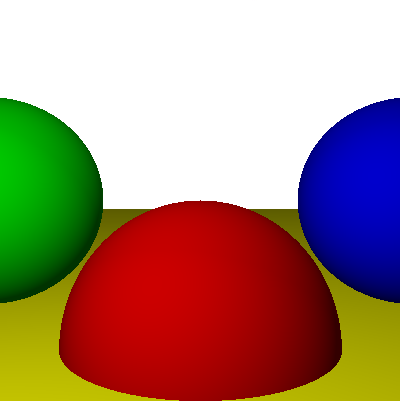
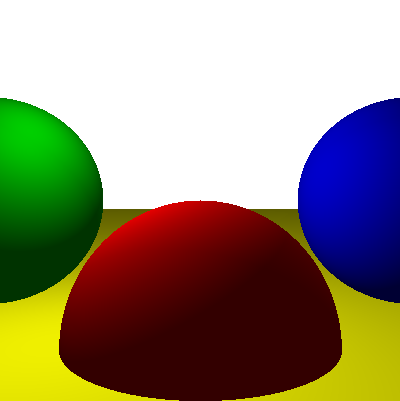
Some refactoring in project.

diff --git a/ray_trace/mainwindow.cpp b/ray_trace/mainwindow.cpp
@@ -6,6 +6,10 @@
 
 #include "mainwindow.h"
 #include "ui_mainwindow.h"
+#include "sphere.h"
+#include "light.h"
+#include "vectors_math.h"
+
 
 const double Vw = 1;
 const double Vh = 1;
@@ -16,36 +20,17 @@ const double Vz = d;
 std::vector<int> BG_COLOR = {255, 255, 255};
 
 
-struct Sphere {
-    std::vector<double> center;
-    double r;
-    std::vector<int> color;
-};
-
-Sphere s1 = {{0, -1, 3}, 1, {255, 0, 0}};
-Sphere s2 = {{2, 0, 4}, 1, {0, 0, 255}};
-Sphere s3 = {{-2, 0, 4}, 1, {0, 255, 0}};
-Sphere s4 = {{0, -5001, 0}, 5000, {255, 255, 0}};
-std::vector<Sphere> objects = {s1, s2, s3, s4};
-
-
-struct Light {
-    enum type {
-        ambient = 0,
-        point,
-        directional
-    };
-
-    type t;
-    double intensity;
-    std::vector<double> position;
-    std::vector<double> direction;
-};
-
 Light l1 = {Light::type::ambient, 0.2};
-Light l2 = {Light::type::point, 0.6, {-1, 1, 0}};
+Light l2 = {Light::type::point, 0.6, {-1, 1, 4}};
 Light l3 = {Light::type::directional, 0.2, {}, {1 , 4, 4}};
 std::vector<Light> lights = {l1, l2, l3};
+
+Sphere* s1 = new Sphere {{0, -1, 3}, 1, {255, 0, 0}};
+Sphere* s2 = new Sphere {{2, 0, 4}, 1, {0, 0, 255}};
+Sphere* s3 = new Sphere {{-2, 0, 4}, 1, {0, 255, 0}};
+Sphere* s4 = new Sphere {{0, -5001, 0}, 5000, {255, 255, 0}};
+//Sphere* sLight = new Sphere {{l2.position[0], l2.position[1] - 0.5, l2.position[2]}, 0.1, {255, 255, 0}};
+std::vector<Object*> objects = {s1, s2, s3, s4};
 
 MainWindow::MainWindow(QWidget *parent)
     : QMainWindow(parent)
@@ -56,7 +41,7 @@ MainWindow::MainWindow(QWidget *parent)
     image.save(PICTURE_PATH);
     Cw = ui->widget->width();
     Ch = ui->widget->height();
-    draw_spheres();
+//    draw_spheres();
 }
 
 MainWindow::~MainWindow()
@@ -77,53 +62,6 @@ std::vector<double> CanvasToViewport(double x, double y) {
     return {x * Vw / Cw, y * Vh / Ch, d};
 }
 
-
-double ScalarMult(const std::vector<double>& U, const std::vector<double>& V) {
-    return U[0] * V[0] + U[1] * V[1] + U[2] * V[2];
-}
-
-
-std::vector<double> IntersectRaySphere(const std::vector<double>& O, const std::vector<double>& D, const Sphere& sphere) {
-    std::vector<double> OC = {O[0] - sphere.center[0],
-                              O[1] - sphere.center[1],
-                              O[2] - sphere.center[2]};
-
-    double k1 = ScalarMult(D, D);
-    double k2 = 2 * ScalarMult(OC, D);
-    double k3 = ScalarMult(OC, OC) - sphere.r * sphere.r;
-
-    double discriminant = k2 * k2 - 4 * k1 * k3;
-    if (discriminant < 0) {
-        return {std::numeric_limits<double>::max(), std::numeric_limits<double>::max()};
-    }
-
-    double t1 = (-k2 + sqrt(discriminant)) / (2 * k1);
-    double t2 = (-k2 - sqrt(discriminant)) / (2 * k1);
-    return {t1, t2};
-}
-
-
-double VectorLength(const std::vector<double>& v) {
-    return sqrt(v[0] * v[0] + v[1] * v[1] + v[2] * v[2]);
-}
-
-std::vector<double> VectorSum(const std::vector<double>& u, const std::vector<double>& v) {
-    return {v[0] + u[0], v[1] + u[1], v[2] + u[2]};
-}
-
-std::vector<double> VectorMult(const std::vector<double>& u, const double& v) {
-    return {u[0] * v, u[1] * v, u[2] * v};
-}
-
-std::vector<int> VectorMult(const std::vector<int>& u, const double& v) {
-    return {(int) round(u[0] * v), (int) round(u[1] * v), (int) round(u[2] * v)};
-}
-
-
-std::vector<double> VectorDiff(const std::vector<double>& u, const std::vector<double>& v) {
-    return {u[0] - v[0], u[1] - v[1], u[2] - v[2]};
-}
-
 double ComputeLightning(const std::vector<double>& P, const std::vector<double>& N) {
     double i = 0;
     std::vector<double> L;
@@ -139,7 +77,7 @@ double ComputeLightning(const std::vector<double>& P, const std::vector<double>&
                 L =light.direction;
             }
 
-            double n_dot_l = ScalarMult(N, L);
+            double n_dot_l = VectorScalarMult(N, L);
             if (n_dot_l > 0) {
                 i += light.intensity * n_dot_l / (VectorLength(N) * VectorLength(L));
             }
@@ -151,30 +89,30 @@ double ComputeLightning(const std::vector<double>& P, const std::vector<double>&
 
 std::vector<int> TraceRay(const std::vector<double>& O, const std::vector<double>& D, double t_min, double t_max) {
     double closest_t = std::numeric_limits<double>::max();
-    Sphere* closest_sphere = nullptr;
+    Object* closest_object = nullptr;
     for (size_t i = 0; i < objects.size(); i++) {
-        std::vector<double> intersections = IntersectRaySphere(O, D, objects[i]);
+        std::vector<double> intersections = objects[i]->IntersectRay(O, D);
         if (intersections[0] > t_min && intersections[0] < t_max && intersections[0] < closest_t) {
             closest_t = intersections[0];
-            closest_sphere = &objects[i];
+            closest_object= objects[i];
         }
         if (intersections[1] > t_min && intersections[1] < t_max && intersections[1] < closest_t) {
             closest_t = intersections[1];
-            closest_sphere = &objects[i];
+            closest_object = objects[i];
         }
     }
 
-    if (closest_sphere == nullptr) {
+    if (closest_object == nullptr) {
         return BG_COLOR;
     }
 
     std::vector<double> P = VectorSum(O, VectorMult(D, closest_t));
-    std::vector<double> N = VectorDiff(P, closest_sphere->center);
+    std::vector<double> N = VectorDiff(P, closest_object->getCenter());
     N = {N[0] / VectorLength(N),
          N[1] / VectorLength(N),
          N[2] / VectorLength(N)};
 
-    return VectorMult(closest_sphere->color, ComputeLightning(P, N));
+    return VectorMult(closest_object->getColor(), ComputeLightning(P, N));
 //    return closest_sphere->color; Old shit, Man
 }
 
@@ -196,4 +134,17 @@ void MainWindow::draw_spheres() {
 
     img.save(PICTURE_PATH);
     update();
+
+    // Just Testing
+    lights[1].setPosition({lights[1].position[0],
+                           lights[1].position[1],
+                           lights[1].position[2] - 0.3});
+//    objects[4]->setCenter({lights[1].position[0],
+//                           lights[1].position[1] - 0.5,
+//                           lights[1].position[2]});
+}
+
+void MainWindow::on_pushButton_clicked()
+{
+    draw_spheres();
 }

diff --git a/ray_trace/sphere.cpp b/ray_trace/sphere.cpp
@@ -1,0 +1,38 @@
+#include "sphere.h"
+#include "vectors_math.h"
+
+std::vector<double> Sphere::IntersectRay(const std::vector<double>& O, const std::vector<double>& D) {
+    std::vector<double> OC = {O[0] - center[0],
+                              O[1] - center[1],
+                              O[2] - center[2]};
+
+    double k1 = VectorScalarMult(D, D);
+    double k2 = 2 * VectorScalarMult(OC, D);
+    double k3 = VectorScalarMult(OC, OC) - r * r;
+
+    double discriminant = k2 * k2 - 4 * k1 * k3;
+    if (discriminant < 0) {
+        return {std::numeric_limits<double>::max(), std::numeric_limits<double>::max()};
+    }
+
+    double t1 = (-k2 + sqrt(discriminant)) / (2 * k1);
+    double t2 = (-k2 - sqrt(discriminant)) / (2 * k1);
+    return {t1, t2};
+}
+
+
+std::vector<double> Sphere::getCenter() {
+    return center;
+}
+
+std::vector<int> Sphere::getColor() {
+    return color;
+}
+
+double Sphere::getRadius() {
+    return r;
+}
+
+void Sphere::setCenter(const std::vector<double>& newCenter) {
+    center = newCenter;
+}

diff --git a/ray_trace/vectors_math.cpp b/ray_trace/vectors_math.cpp
@@ -1,0 +1,26 @@
+#include "vectors_math.h"
+
+double VectorLength(const std::vector<double>& v) {
+    return sqrt(v[0] * v[0] + v[1] * v[1] + v[2] * v[2]);
+}
+
+std::vector<double> VectorSum(const std::vector<double>& u, const std::vector<double>& v) {
+    return {v[0] + u[0], v[1] + u[1], v[2] + u[2]};
+}
+
+std::vector<double> VectorMult(const std::vector<double>& u, const double& v) {
+    return {u[0] * v, u[1] * v, u[2] * v};
+}
+
+std::vector<int> VectorMult(const std::vector<int>& u, const double& v) {
+    return {(int) round(u[0] * v), (int) round(u[1] * v), (int) round(u[2] * v)};
+}
+
+
+std::vector<double> VectorDiff(const std::vector<double>& u, const std::vector<double>& v) {
+    return {u[0] - v[0], u[1] - v[1], u[2] - v[2]};
+}
+
+double VectorScalarMult(const std::vector<double>& U, const std::vector<double>& V) {
+    return U[0] * V[0] + U[1] * V[1] + U[2] * V[2];
+}

diff --git a/ray_trace/sphere.h b/ray_trace/sphere.h
@@ -1,0 +1,23 @@
+#ifndef SPHERE_H
+#define SPHERE_H
+
+#include "object.h"
+
+class Sphere : public Object
+{
+private:
+    std::vector<double> center;
+    double r;
+    std::vector<int> color;
+public:
+    Sphere(std::vector<double> ce, double radius, std::vector<int> co) :
+        center(ce), r(radius), color(co) {}
+
+    virtual std::vector<double> IntersectRay(const std::vector<double>& O, const std::vector<double>& D) override;
+    virtual std::vector<double>getCenter() override;
+    virtual std::vector<int> getColor() override;
+    virtual double getRadius() override;
+    virtual void setCenter(const std::vector<double>&) override;
+};
+
+#endif // SPHERE_H

diff --git a/ray_trace/vectors_math.h b/ray_trace/vectors_math.h
@@ -1,0 +1,15 @@
+#ifndef VECTORS_MATH_H
+#define VECTORS_MATH_H
+
+#include <vector>
+#include <cmath>
+
+double VectorLength(const std::vector<double>& v);
+
+std::vector<double> VectorSum(const std::vector<double>& u, const std::vector<double>& v);
+std::vector<double> VectorMult(const std::vector<double>& u, const double& v);
+std::vector<int> VectorMult(const std::vector<int>& u, const double& v);
+std::vector<double> VectorDiff(const std::vector<double>& u, const std::vector<double>& v);
+double VectorScalarMult(const std::vector<double>& U, const std::vector<double>& V);
+
+#endif // VECTORS_MATH_H

diff --git a/ray_trace/object.h b/ray_trace/object.h
@@ -1,12 +1,23 @@
 #ifndef OBJECT_H
 #define OBJECT_H
 
+#include <vector>
+#include <limits>
 
 class Object
 {
 public:
     Object();
 
+    virtual ~Object();
+
+    virtual std::vector<double> IntersectRay(const std::vector<double>& O, const std::vector<double>& D) = 0;
+    virtual std::vector<double>getCenter() = 0;
+    virtual std::vector<int> getColor() = 0;
+    virtual void setCenter(const std::vector<double>&) = 0;
+
+    // NOT ALL OBJECT WILL HAVE RADIUS. WE SHOULD THINK HOW TO SOLVE IT IN FUTURE.
+    virtual double getRadius() = 0;
 
 };
 

diff --git a/ray_trace/light.h b/ray_trace/light.h
@@ -1,0 +1,24 @@
+#ifndef LIGHT_H
+#define LIGHT_H
+
+#include <vector>
+
+class Light {
+public:
+    enum type {
+        ambient = 0,
+        point,
+        directional
+    };
+
+public:
+    Light(type t, double intensity, std::vector<double> position = {}, std::vector<double> direction = {});
+    type t;
+    double intensity;
+    std::vector<double> position;
+    std::vector<double> direction;
+
+    void setPosition(std::vector<double> newPosition);
+};
+
+#endif // LIGHT_H

diff --git a/ray_trace/light.cpp b/ray_trace/light.cpp
@@ -1,0 +1,9 @@
+#include "light.h"
+
+Light::Light(type tp, double intens, std::vector<double> pos, std::vector<double> dir) :
+    t (tp), intensity(intens), position(pos), direction(dir) { }
+
+
+void Light::setPosition(std::vector<double> newPosition) {
+    position = newPosition;
+}

diff --git a/ray_trace/mainwindow.h b/ray_trace/mainwindow.h
@@ -17,6 +17,9 @@ public:
     ~MainWindow();
     virtual void paintEvent(QPaintEvent *);
 
+private slots:
+    void on_pushButton_clicked();
+
 private:
     Ui::MainWindow *ui;
     void draw_spheres();

diff --git a/ray_trace/object.cpp b/ray_trace/object.cpp
@@ -4,3 +4,5 @@ Object::Object()
 {
 
 }
+
+Object::~Object() { }
